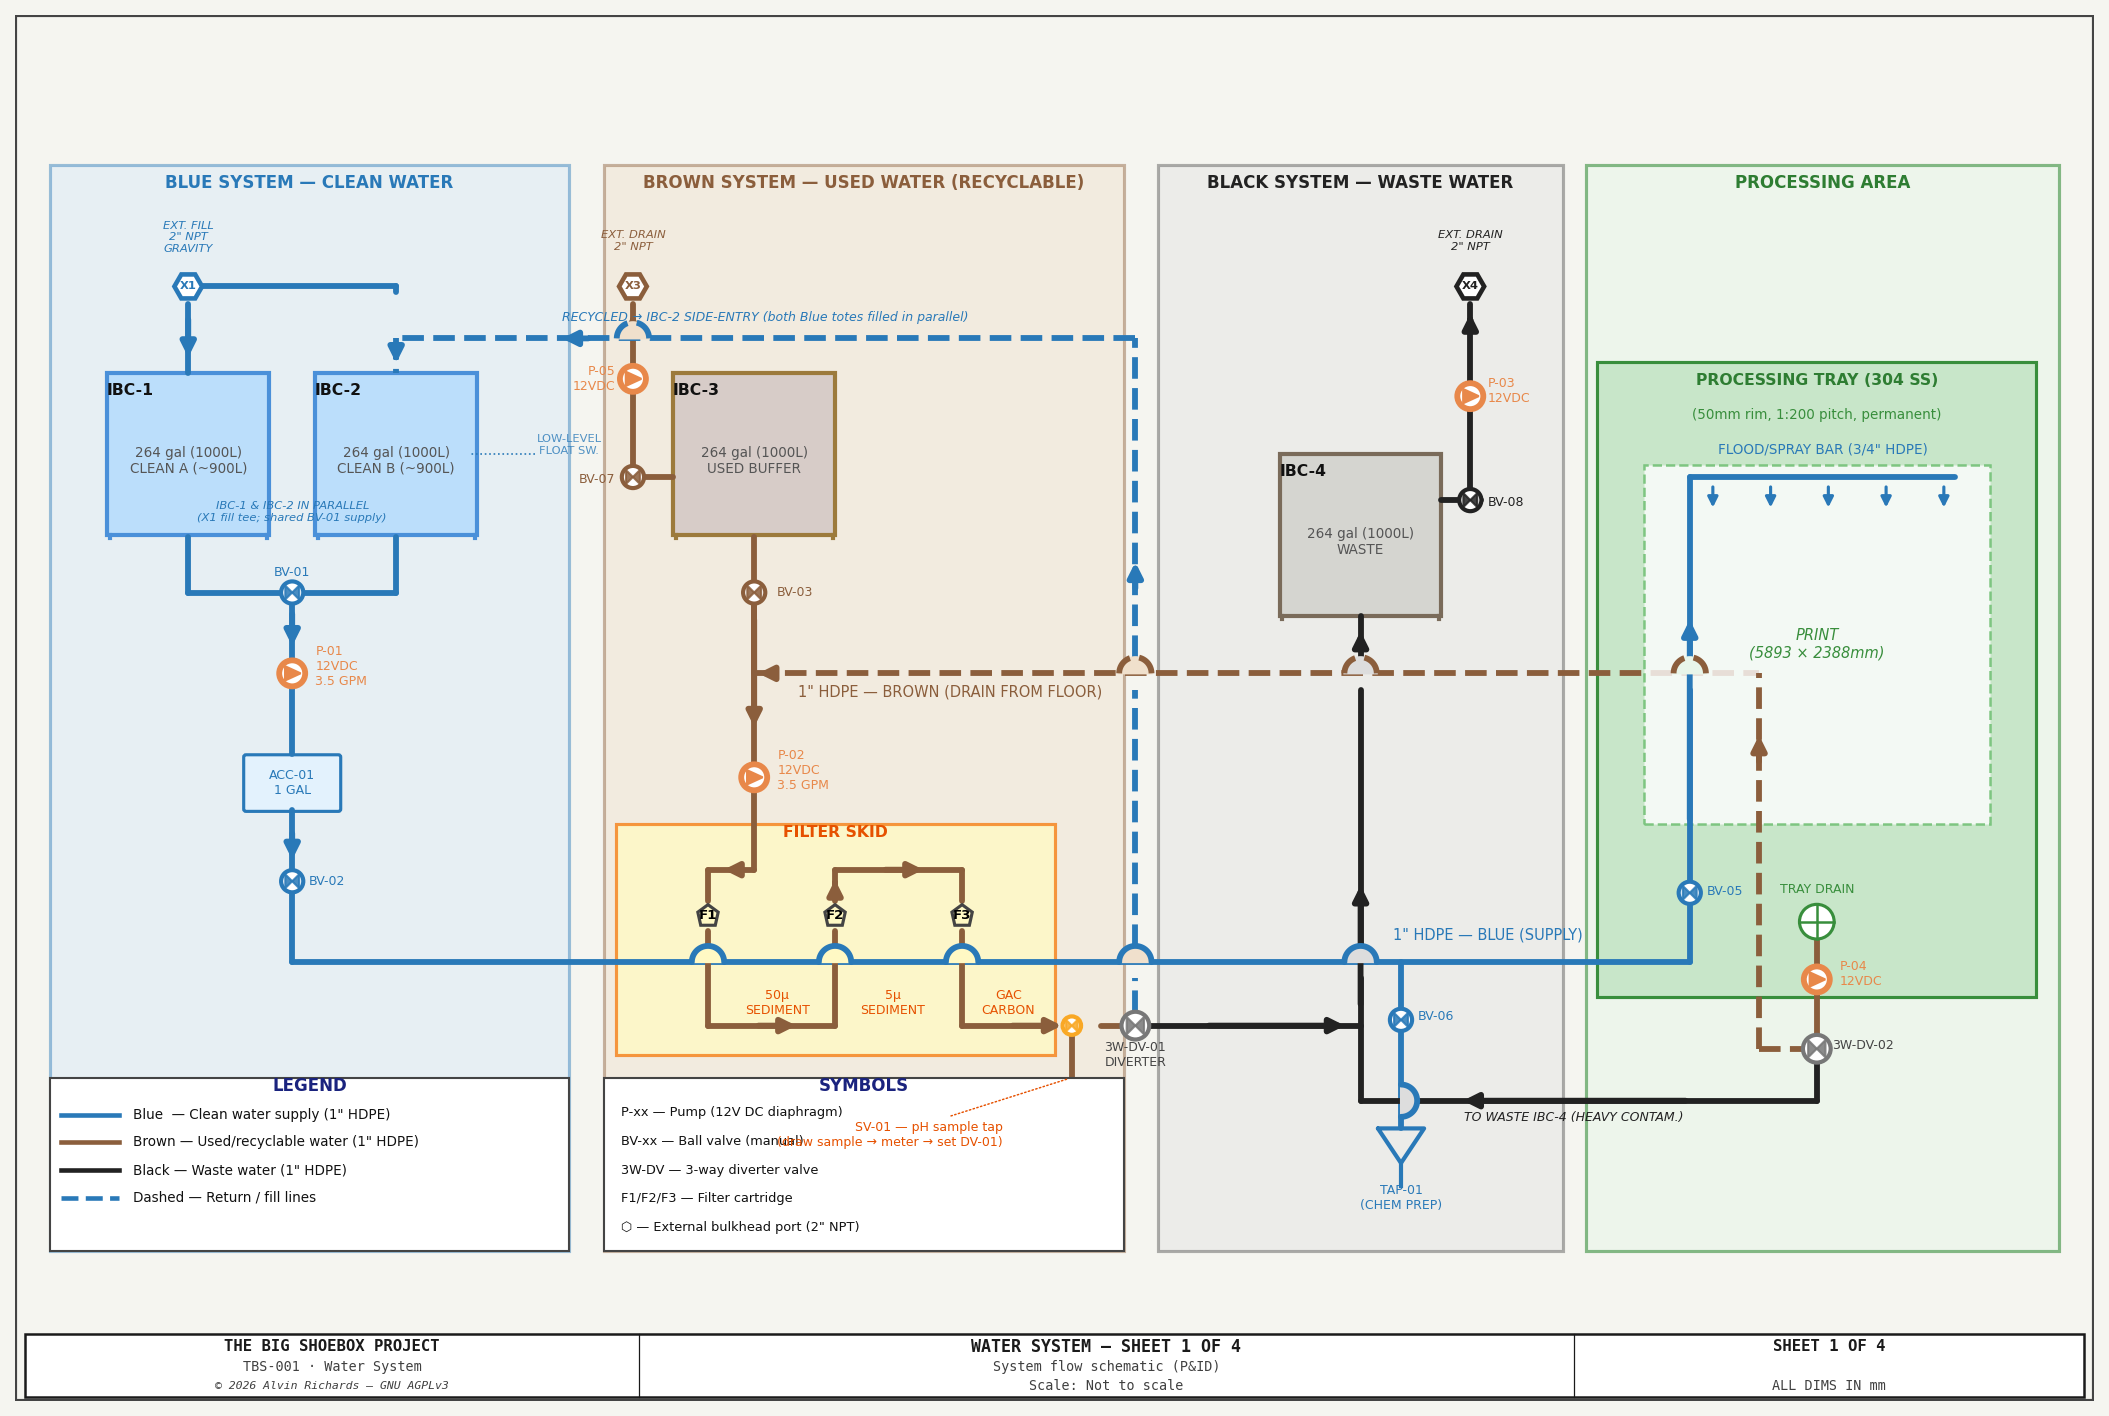
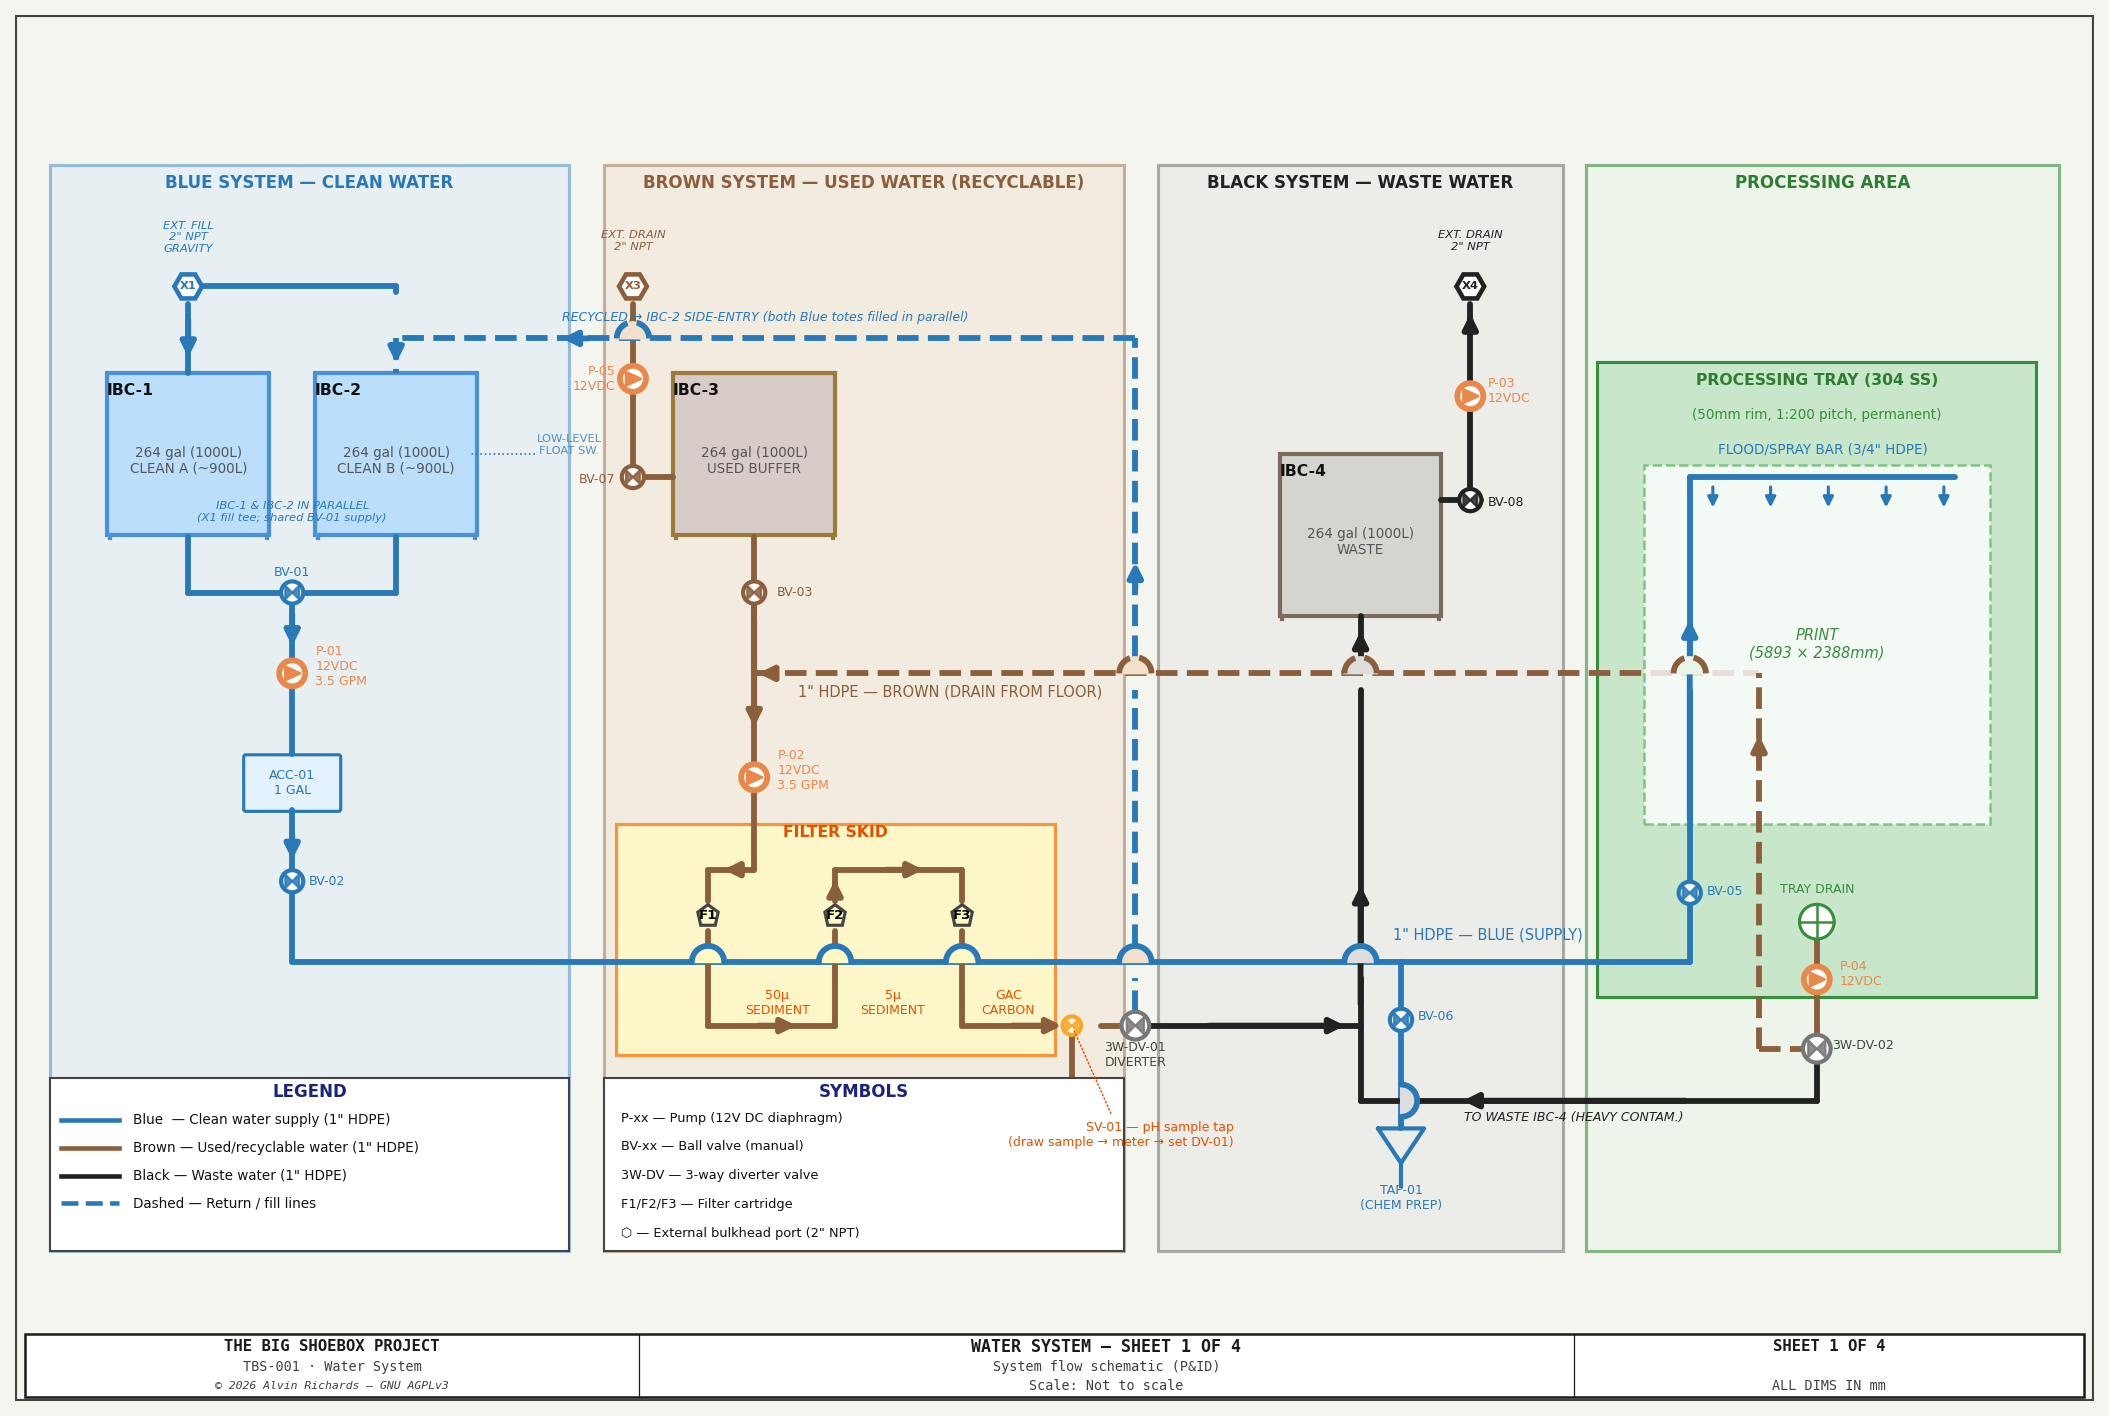
Tidy labels

Changed region(s): [[0.0308, 0.7458, 0.1849, 0.8701], [0.2774, 0.7458, 0.4931, 0.8701], [0.5239, 0.7768, 0.5856, 0.8079]]

diff --git a/src/generators/generate_water_system.py b/src/generators/generate_water_system.py
@@ -404,7 +404,7 @@ def draw_sheet1():
     arrow_pipe(ax1, 8.6, 3.25, 9.1, 3.25, color=C_BROWN)     # rightward to DV-01
     valve(ax1, 9.15, 3.25, color="#F9A825", size=0.05, label="SV")   # SV-01 sample valve
     pipe(ax1, 9.15, 3.25 - 0.05 * 1.6, 9.15, 2.78, C_BROWN)  # downturned spout for the cup
-    leader(ax1, 9.15, 2.80, 8.55, 2.30,
+    leader(ax1, 9.15, 3.25, 10.55, 2.30,
            "SV-01 — pH sample tap\n(draw sample → meter → set DV-01)",
            fs=6, color="#E65100", ha="right")
 
@@ -533,7 +533,7 @@ def draw_sheet1():
     BOX_X = 0.3    # Blue System left edge
     BOX_Y = 1.3    # bottom of system boxes
     lx = BOX_X + 0.1            # left margin for content
-    ly = BOX_Y + BOX_H - 0.20   # top content Y (just inside box top)
+    ly = BOX_Y + BOX_H - 0.25   # top content Y (just inside box top)
 
     ax1.add_patch(plt.Rectangle((BOX_X, BOX_Y), BOX_W, BOX_H,
                                  fc="white", ec=C_FRAME, lw=1, zorder=6))
@@ -1178,7 +1178,7 @@ def draw_sheet4():
     TUBE_WALL = 3.0  # HDPE tube wall thickness (mm)
     draw_pipe_path(ax4a,
                    [tube_yd, tube_yd], [tube_z_bot + foot_valve_h, tube_z_top],
-                   TUBE_OD, TUBE_WALL, 
+                   TUBE_OD, TUBE_WALL,
                    fc="#D0D0D0", ec=C_FRAME, zorder=6)
     ax4a.add_patch(plt.Rectangle(((tube_yd - foot_valve_w/2), (tube_z_bot)),
                   foot_valve_w / SC_A, foot_valve_h / SC_A,
@@ -1366,7 +1366,7 @@ def draw_sheet4():
     RIM_TOP_B = TRAY_BASE_Z + rim_h  # 70mm
     tube_z_top_b = WK_DECK_H + WK_GRATE_T + 10  # 135mm — above walkway grate + clearance
     draw_pipe_path(ax4b, [tube_yd_b, tube_yd_b], [5, tube_z_top_b],
-                   TUBE_OD, TUBE_WALL, 
+                   TUBE_OD, TUBE_WALL,
                    fc="#D0D0D0", ec=C_FRAME, zorder=5)
     ax4b.text((tube_yd_b/2), (RIM_TOP_B + 85), "PICKUP\nTUBE",
               ha="left", va="bottom", fontsize=5.5, color=C_FRAME,
@@ -1547,7 +1547,7 @@ def draw_sheet4():
     draw_pipe_path(ax4c,
                    [SUMP_X, SUMP_X, CORNER_X, CORNER_X, P04_PLAN_X],
                    [tube_yd, RIM_EXT_YD_C, RIM_EXT_YD_C, CORRIDOR_YD_NEAR, CORRIDOR_YD_NEAR],
-                   HOSE_OD, HOSE_WALL, 
+                   HOSE_OD, HOSE_WALL,
                    fc=C_BROWN, ec="#5A3020", zorder=6)
 
     # P-clip marks along rim run (small ticks — horizontal marks along vertical pipe)
